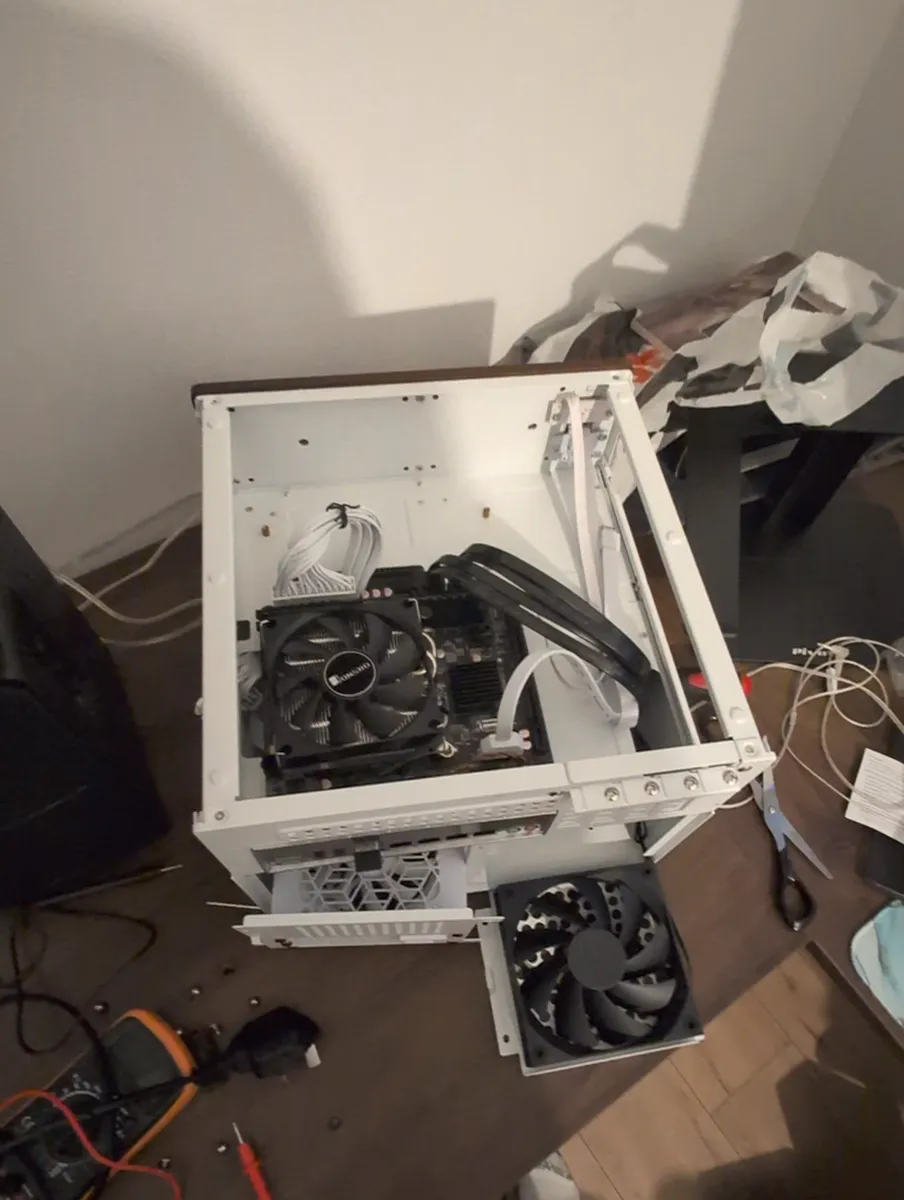
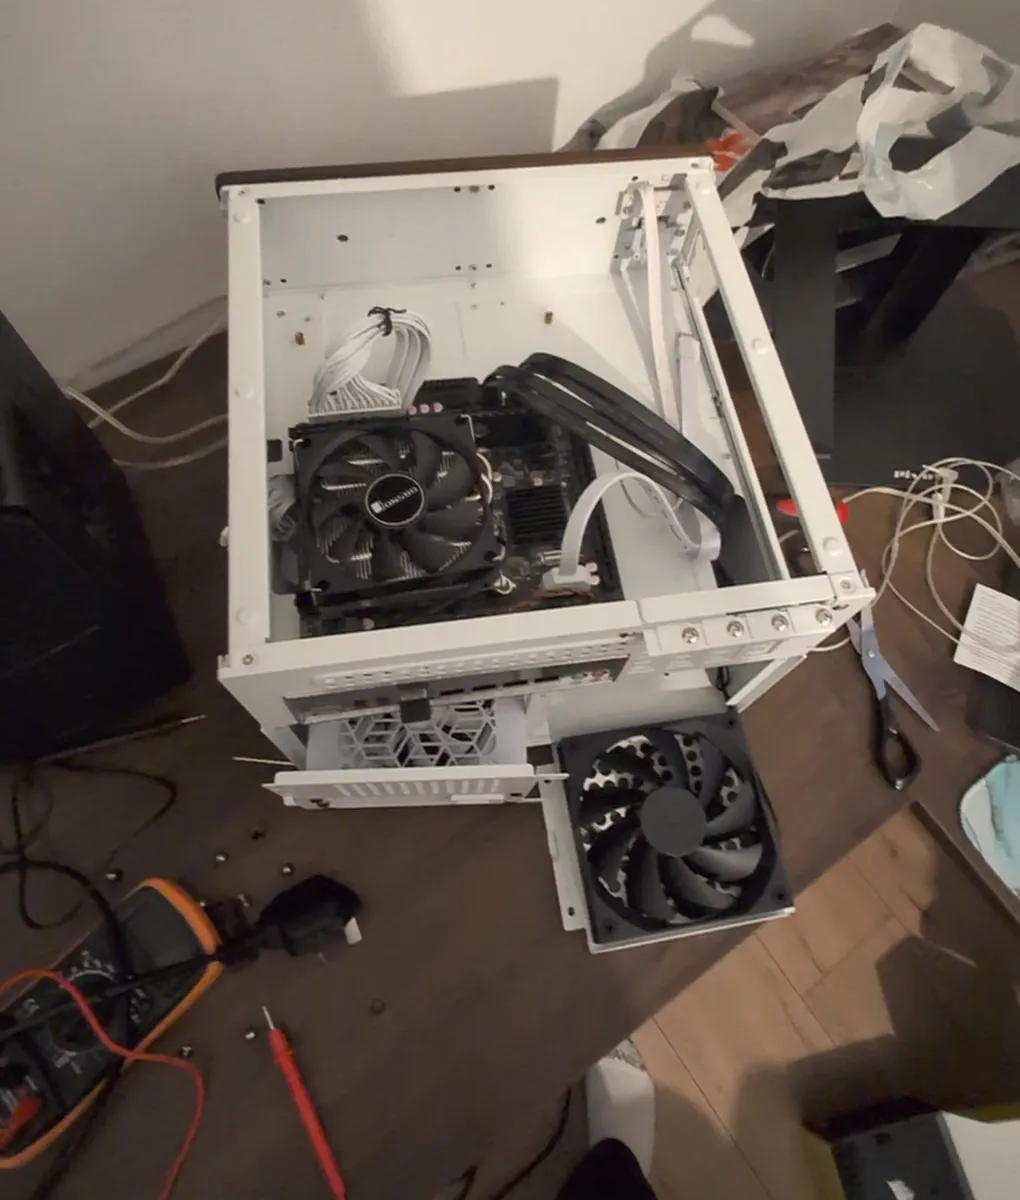
Allowing the carousel to have a set height, and also cut the images vertically so they fit a bit better on the page.

diff --git a/src/components/Carousel/Carousel.module.css b/src/components/Carousel/Carousel.module.css
@@ -1,6 +1,9 @@
 .carousel {
-  /* Every image is shown at this height; widths follow each image's shape */
-  --slide-height: clamp(16rem, 60vw, 26rem);
+  /*
+   * Every image is shown at this height; widths follow each image's shape.
+   * A page can override it with the component's `height` prop.
+   */
+  --slide-height: clamp(14rem, 55vw, 22rem);
   --fade-size: 5rem;
 
   width: 100%;
